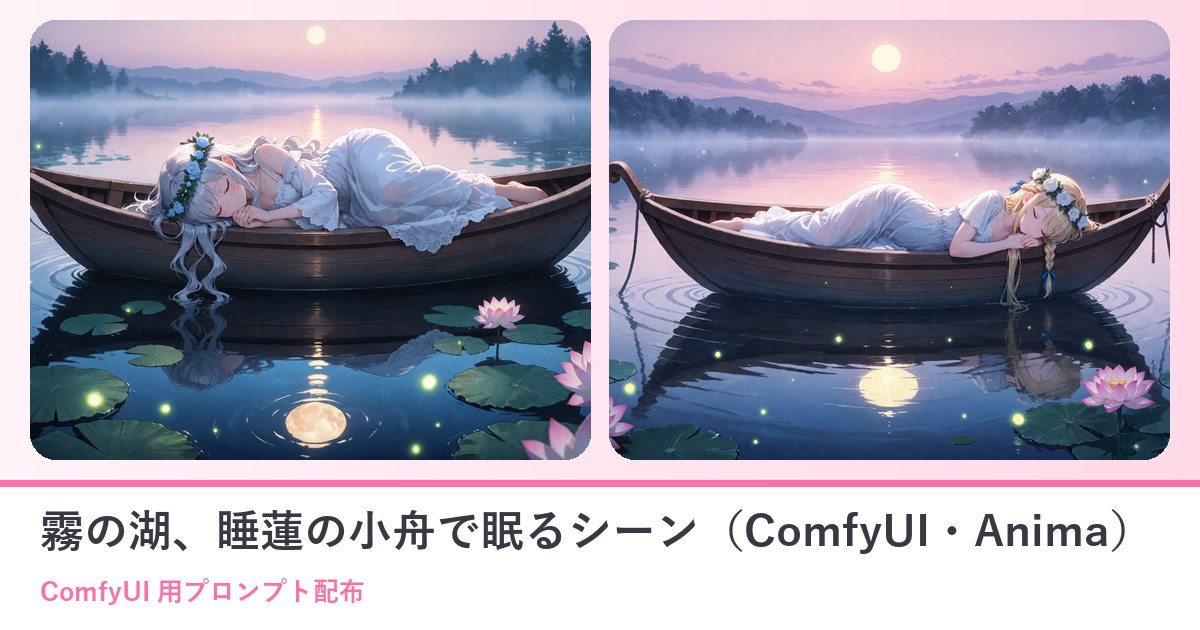
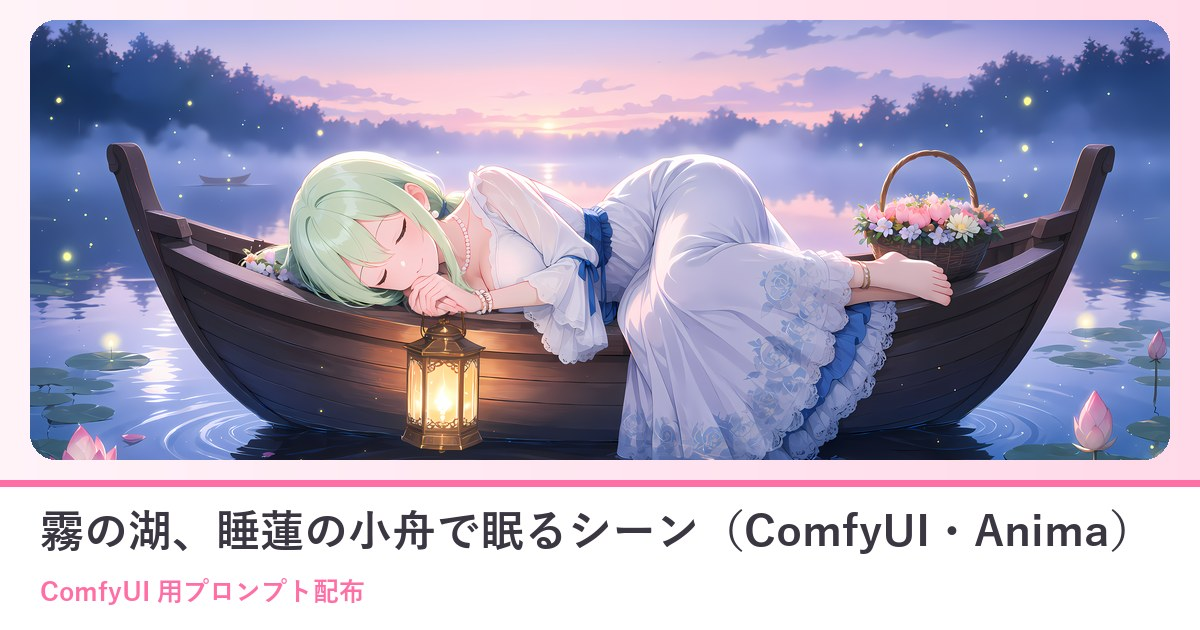
プロンプト配布 10/03 眠り姫 ComfyUI を1枚・LoRA あり／なしに作り直し

diff --git a/prompts/2026-10-03-comfy-r61dxbai.html b/prompts/2026-10-03-comfy-r61dxbai.html
@@ -4,16 +4,16 @@
 <meta charset="UTF-8"><meta name="robots" content="noindex, nofollow, noarchive"><meta name="referrer" content="strict-origin">
 <meta name="viewport" content="width=device-width, initial-scale=1">
 <title>霧の湖、睡蓮の小舟で眠るシーン（ComfyUI・Anima）｜ひみつの眠り姫</title>
-<meta name="description" content="霧のたちこめる夜明けの湖。睡蓮と蛍の光に囲まれた小舟で、花冠をのせたお姫さまが横向きに丸くなって眠っています。水面に映る月まで入った、絵本のような一枚が作れるシーンのプロンプトです。オリキャラがいなくても、そのまま貼るだ">
+<meta name="description" content="霧のたちこめる夜明けの湖。睡蓮と蛍の光に囲まれた小舟で、花冠をのせたお姫さまが横向きに丸くなって眠っています。水面に映るランタンの灯りまで入った、絵本のような一枚が作れるシーンのプロンプトです。LoRA が無くても、A ">
 <meta property="og:title" content="霧の湖、睡蓮の小舟で眠るシーン（ComfyUI・Anima）｜ひみつの眠り姫">
-<meta property="og:description" content="霧のたちこめる夜明けの湖。睡蓮と蛍の光に囲まれた小舟で、花冠をのせたお姫さまが横向きに丸くなって眠っています。水面に映る月まで入った、絵本のような一枚が作れるシーンのプロンプトです。オリキャラがいなくても、そのまま貼るだ">
+<meta property="og:description" content="霧のたちこめる夜明けの湖。睡蓮と蛍の光に囲まれた小舟で、花冠をのせたお姫さまが横向きに丸くなって眠っています。水面に映るランタンの灯りまで入った、絵本のような一枚が作れるシーンのプロンプトです。LoRA が無くても、A ">
 <meta property="og:type" content="article">
 <meta property="og:url" content="https://himitsu-nemurihime.github.io/prompts/2026-10-03-comfy-r61dxbai.html">
 <meta property="og:image" content="https://himitsu-nemurihime.github.io/prompts/img/2026-10-03-comfy-r61dxbai/og.jpg">
 <meta property="og:image:width" content="1200"><meta property="og:image:height" content="630">
 <meta name="twitter:card" content="summary_large_image">
 <meta name="twitter:title" content="霧の湖、睡蓮の小舟で眠るシーン（ComfyUI・Anima）｜ひみつの眠り姫">
-<meta name="twitter:description" content="霧のたちこめる夜明けの湖。睡蓮と蛍の光に囲まれた小舟で、花冠をのせたお姫さまが横向きに丸くなって眠っています。水面に映る月まで入った、絵本のような一枚が作れるシーンのプロンプトです。オリキャラがいなくても、そのまま貼るだ">
+<meta name="twitter:description" content="霧のたちこめる夜明けの湖。睡蓮と蛍の光に囲まれた小舟で、花冠をのせたお姫さまが横向きに丸くなって眠っています。水面に映るランタンの灯りまで入った、絵本のような一枚が作れるシーンのプロンプトです。LoRA が無くても、A ">
 <meta name="twitter:image" content="https://himitsu-nemurihime.github.io/prompts/img/2026-10-03-comfy-r61dxbai/og.jpg">
 <meta name="theme-color" content="#FFF3F8">
 <link rel="preconnect" href="https://fonts.googleapis.com">
@@ -68,15 +68,17 @@
 @media(max-width:560px){.ps-ba{grid-template-columns:1fr}.ps-ba .arr{transform:rotate(90deg);text-align:center}.ps-vars,.ps-vars tbody,.ps-vars tr,.ps-vars th,.ps-vars td{display:block;width:auto;white-space:normal}.ps-vars tr:first-child{display:none}.ps-vars tr{border-bottom:1px solid var(--ps-line);padding:4px 0}.ps-vars th,.ps-vars td{border:0;padding:6px 12px}}
 .ps{overflow-wrap:anywhere}.ps-vars td,.ps-vars th{overflow-wrap:anywhere}.ps img{max-width:100%}
 </style>
-<!--ps-meta {"date": "2026-10-03", "title": "霧の湖、睡蓮の小舟で眠るシーン（ComfyUI・Anima）", "kind": "comfy", "nsfw": false, "summary": "霧の湖で、睡蓮と蛍に囲まれた小舟に眠るお姫さま。水面の月まで入る絵本のような一枚が、貼るだけで作れます。", "thumb": "img/2026-10-03-comfy-r61dxbai/ex1.webp"}-->
+<!--ps-meta {"date": "2026-10-03", "title": "霧の湖、睡蓮の小舟で眠るシーン（ComfyUI・Anima）", "kind": "comfy", "nsfw": false, "summary": "霧の湖で、睡蓮と蛍に囲まれた小舟に眠るお姫さま。LoRA あり／なしの2通り。", "thumb": "img/2026-10-03-comfy-r61dxbai/ex1.webp"}-->
 </head>
 <body>
 <div class="sky"></div>
 <main class="wrap">
 <section class="sec"><div class="sec-head"><h2>霧の湖、睡蓮の小舟で眠るシーン（ComfyUI・Anima）</h2><p>ひみつの眠り姫のプロンプト配布</p></div>
-<div class="ps"><p><span class="ps-badge">ComfyUI 用</span><span class="ps-badge">2026-10-03</span></p><p class="ps-lead">霧のたちこめる夜明けの湖。睡蓮と蛍の光に囲まれた小舟で、花冠をのせたお姫さまが横向きに丸くなって眠っています。水面に映る月まで入った、絵本のような一枚が作れるシーンのプロンプトです。オリキャラがいなくても、そのまま貼るだけで綺麗な女の子で出ます。自分のキャラにしたいときは、1行目の見た目だけ書き換えてください。</p><nav class="ps-toc" aria-label="目次"><p>📑 目次</p><ol><li><a href="#sec1">作例</a></li><li><a href="#sec2">3人のおしゃべり（起こさないで）</a></li><li><a href="#sec3">使い方（3ステップ）</a></li><li><a href="#sec4">プロンプト</a></li><li><a href="#sec5">必要なもの（ComfyUI）</a></li><li><a href="#sec6">メモ</a></li><li><a href="#sec7">配布ルール</a></li><li><a href="#sec8">バックナンバー</a></li></ol></nav><h2 id="sec1">作例</h2><div class="ps-ex"><figure><img src="img/2026-10-03-comfy-r61dxbai/ex1.webp" alt="1行目そのまま（1girl, solo, long hair, wavy hair, silver hair）" loading="lazy"><figcaption>1行目そのまま（1girl, solo, long hair, wavy hair, silver hair）</figcaption></figure><figure><img src="img/2026-10-03-comfy-r61dxbai/ex2.webp" alt="1行目を「1girl, solo, long hair, blonde hair, braid, hair ribbon」に" loading="lazy"><figcaption>1行目を「1girl, solo, long hair, blonde hair, braid, hair ribbon」に</figcaption></figure><figure><img src="img/2026-10-03-comfy-r61dxbai/ex3.webp" alt="1行目を「1girl, solo, medium hair, light green hair, pink streaks, hair flower」に" loading="lazy"><figcaption>1行目を「1girl, solo, medium hair, light green hair, pink streaks, hair flower」に</figcaption></figure><figure><img src="img/2026-10-03-comfy-r61dxbai/ex4.webp" alt="1行目を「1girl, solo, short hair, black hair, hairclip」に" loading="lazy"><figcaption>1行目を「1girl, solo, short hair, black hair, hairclip」に</figcaption></figure></div><p style="font-size:.82rem;color:var(--ps-ink)">※作例の画像の転載・保存しての再配布はご遠慮ください。</p><h2 id="sec2">3人のおしゃべり（起こさないで）</h2><div class="ps-chat"><img src="img/2026-10-03-comfy-r61dxbai/talk_ref_tiru.webp" alt="ティルナ" loading="lazy"><div><div class="who">ティルナ</div><div class="bub">見て見て！ 霧の湖に小舟がぷかぷか……花冠のお姫さまが、丸くなってすやすや寝てるよ〜</div></div></div><div class="ps-chat r"><img src="img/2026-10-03-comfy-r61dxbai/talk_ref_sefi.webp" alt="セフィリア" loading="lazy"><div><div class="who">セフィリア</div><div class="bub">まあ……睡蓮と蛍の光、それに水面に映るお月さままで。夜明けの紫色の霧が、とても幻想的でございますね</div></div></div><div class="ps-chat r"><img src="img/2026-10-03-comfy-r61dxbai/talk_ref_lilia.webp" alt="リリア" loading="lazy"><div><div class="who">リリア</div><div class="bub">1行目の髪の色を書き換えるだけで、金髪の三つ編みにも、黒髪のショートにもなりますの。オリキャラがいなくても、そのままで綺麗に出ますわ</div></div></div><div class="ps-chat"><img src="img/2026-10-03-comfy-r61dxbai/talk_ref_tiru.webp" alt="ティルナ" loading="lazy"><div><div class="who">ティルナ</div><div class="bub">金髪の子は三つ編みが舟のふちから水にたれてて、黒髪の子はドレスのすそが湖まで……どっちも絵本みたい！</div></div></div><div class="ps-chat r"><img src="img/2026-10-03-comfy-r61dxbai/talk_ref_sefi.webp" alt="セフィリア" loading="lazy"><div><div class="who">セフィリア</div><div class="bub">舟の中で眠るか、ふちにもたれて眠るかは、seed しだいだそうでございます</div></div></div><div class="ps-chat r"><img src="img/2026-10-03-comfy-r61dxbai/talk_ref_lilia.webp" alt="リリア" loading="lazy"><div><div class="who">リリア</div><div class="bub">ネガティブの open eyes は消さないでくださいませ。眠り姫が目を覚まして、湖に落ちてしまいますわ</div></div></div><h2 id="sec3">使い方（3ステップ）</h2><ol class="ps-steps"><li>ComfyUI で Anima のモデルを読み、基本の画像生成（テキストから画像）の画面にする</li><li>下のポジティブとネガティブをワンタップでコピーして貼る（自分のキャラにするなら1行目だけ書き換える）</li><li>「推奨値」の大きさ・steps・CFG にして生成する（できれば 1.5 倍の hires fix も）</li></ol><h2 id="sec4">プロンプト</h2><div class="ps-note" style="margin-bottom:12px"><b>変えるのは1行目（色の付いた行）だけ</b><ul><li>1行目＝キャラの見た目（髪の色・髪型・目の色など）。自分のキャラの特徴に書き換えてね</li><li>オリキャラがいない人は、<b>そのまま</b>コピーして使えばOK（作例の女の子で出ます）</li><li>自分のキャラの LoRA がある人は、1行目に LoRA のトリガー語を入れてね</li><li>2行目から下（シーン）と、ネガティブプロンプトは変えずにそのまま</li><li>🚫 版権キャラの名前・版権キャラの LoRA を入れて使うのは固く禁止です（下の「配布ルール」）</li></ul></div><div class="ps-box"><button class="ps-copy" type="button" data-target="ps-prompt">📋 ワンタップでコピー</button><p style="margin:0 0 8px;font-size:.82rem;color:var(--ps-a)">ポジティブプロンプト</p><pre><mark class="ps-in" data-key="キャラの行">1girl, solo, long hair, wavy hair, silver hair</mark>
-masterpiece, best quality, score_7, safe, sleeping, closed eyes, peaceful smile, lying, on side, curled up, hands together, in boat, small boat, rowboat, white dress, long dress, lace trim, head wreath, flower wreath, lotus, water lily, lake, fog, mist, dawn, moon, moon reflection, reflection, water, ripples, fireflies, light particles, from side, full body, wide shot, depth of field, detailed background, scenery, cinematic lighting, ethereal, fantasy, pastel colors</pre><textarea class="ps-copyarea" id="ps-prompt" readonly aria-hidden="true" tabindex="-1">1girl, solo, long hair, wavy hair, silver hair
-masterpiece, best quality, score_7, safe, sleeping, closed eyes, peaceful smile, lying, on side, curled up, hands together, in boat, small boat, rowboat, white dress, long dress, lace trim, head wreath, flower wreath, lotus, water lily, lake, fog, mist, dawn, moon, moon reflection, reflection, water, ripples, fireflies, light particles, from side, full body, wide shot, depth of field, detailed background, scenery, cinematic lighting, ethereal, fantasy, pastel colors</textarea></div><div style="height:12px"></div><div class="ps-box"><button class="ps-copy" type="button" data-target="ps-negative">📋 ワンタップでコピー</button><p style="margin:0 0 8px;font-size:.82rem;color:var(--ps-a)">ネガティブプロンプト</p><pre>worst quality, low quality, lowres, bad anatomy, bad hands, extra fingers, missing fingers, fused fingers, blurry, jpeg artifacts, text, watermark, signature, logo, extra person, multiple girls, cropped, out of frame, open eyes, japanese text, chinese text, korean text, kanji, hiragana, katakana, calligraphy</pre><textarea class="ps-copyarea" id="ps-negative" readonly aria-hidden="true" tabindex="-1">worst quality, low quality, lowres, bad anatomy, bad hands, extra fingers, missing fingers, fused fingers, blurry, jpeg artifacts, text, watermark, signature, logo, extra person, multiple girls, cropped, out of frame, open eyes, japanese text, chinese text, korean text, kanji, hiragana, katakana, calligraphy</textarea></div><h2 id="sec5">必要なもの（ComfyUI）</h2><div class="ps-note">🧩 <b>カスタムノードは使っていません</b>。LoRA も要りません。ComfyUI の基本の画像生成（テキストから画像）に、ポジティブ・ネガティブを貼って、下の推奨値にするだけです。</div><table class="ps-vars" style="margin-top:12px"><tr><th>モデル</th><th>ファイル</th><th>置き場</th></tr><tr><td>Anima 系のモデル</td><td>PrismPalette_ANIMA_v1 など好きな Anima</td><td><code>models/diffusion_models</code></td></tr><tr><td>テキストエンコーダ（Anima 用）</td><td>qwen_3_06b_base.safetensors</td><td><code>models/text_encoders</code></td></tr><tr><td>VAE（Anima 用）</td><td>qwen_image_vae.safetensors</td><td><code>models/vae</code></td></tr></table><h2>推奨値</h2><table class="ps-vars"><tr><th>大きさ</th><td colspan="2">1536×864（横長＝小舟と湖と月が一枚に入る）</td></tr><tr><th>steps</th><td colspan="2">30</td></tr><tr><th>CFG</th><td colspan="2">4.5</td></tr><tr><th>sampler</th><td colspan="2">er_sde</td></tr><tr><th>scheduler</th><td colspan="2">beta</td></tr><tr><th>hires fix（任意）</th><td colspan="2">1.5 倍に拡大して denoise 0.4・同じ steps と CFG（作例はこれ）</td></tr><tr><th>LoRA</th><td colspan="2">要りません（自分のキャラの LoRA があれば使ってOK）</td></tr></table><h2 id="sec6">メモ</h2><ul class="ps-rules"><li>1行目には見た目だけを書いてください（髪の色・長さ・髪型・髪飾りなど）。ドレスや湖は2行目からに入っているので、書かなくて大丈夫です。</li><li>眠っている場面なので、目の色は写りません。ネガティブの open eyes は消さないでください（目が開いてしまいます）。</li><li>小舟の中に寝るか、ふちに寄りかかって寝るかは seed で変わります。手は頬の下でそろえる形なので、くずれにくくなっています。</li><li>ほかのモデル（SDXL・Illustrious など）でも、2行目の先頭の masterpiece, best quality, score_7, safe をそのモデルの品質の語に替えれば使えます（作例は Anima です）。</li></ul><h2 id="sec7">配布ルール</h2><ul class="ps-rules"><li>⭕ プロンプトの改変は自由です。</li><li>⭕ 生成した画像は SNS に投稿して大丈夫です。</li><li>❌ プロンプト文そのものの転載・再配布・販売はしないでください。</li><li>❌ 自作のプロンプトだと名乗ることはやめてください。</li><li>❌ このページの作例画像の無断転載はしないでください。</li><li class="ps-rights">🚫 <b>アニメ・漫画・ゲームなどの版権キャラクター（著作権・商標のあるキャラ）、他の人のキャラクターやイラスト、実在の人物の写真を添付画像にして使うことは固く禁止します。</b>版権キャラの名前や、版権キャラの LoRA を入れて使うことも禁止です。</li><li>✅ 添付してよいのは、<b>自分で作ったキャラクター・自分が権利を持つ画像</b>（または権利者から使ってよいと言われた画像）だけです。</li><li>⚠ 生成した画像の使い方（投稿・公開など）は、使った人の責任でお願いします。権利の問題が起きても、配布者は責任を負えません。</li><li>💌 使ったら <b>#眠り姫プロンプト</b> を付けて見せてくれたら、とても嬉しいです（任意です）。</li></ul><h2 id="sec8">バックナンバー</h2><div class="ps-note">📚 これまでの配布は <a href="index.html"><b>バックナンバー</b></a> にまとめてあります（作例の絵と内容が一覧で見られます）。お友だちに教えるときは、バックナンバーのページの URL を送ればOKです。</div></div>
+<div class="ps"><p><span class="ps-badge">ComfyUI 用</span><span class="ps-badge">2026-10-03</span></p><p class="ps-lead">霧のたちこめる夜明けの湖。睡蓮と蛍の光に囲まれた小舟で、花冠をのせたお姫さまが横向きに丸くなって眠っています。水面に映るランタンの灯りまで入った、絵本のような一枚が作れるシーンのプロンプトです。LoRA が無くても、A をそのまま貼るだけで綺麗な女の子で出ます。自分のキャラの LoRA を持っている人は B をどうぞ。</p><nav class="ps-toc" aria-label="目次"><p>📑 目次</p><ol><li><a href="#sec1">作例</a></li><li><a href="#sec2">3人のおしゃべり（起こさないで）</a></li><li><a href="#sec3">使い方（3ステップ）</a></li><li><a href="#sec4">プロンプト</a></li><li><a href="#sec5">必要なもの（ComfyUI）</a></li><li><a href="#sec6">メモ</a></li><li><a href="#sec7">配布ルール</a></li></ol></nav><h2 id="sec1">作例</h2><div class="ps-ex"><figure><img src="img/2026-10-03-comfy-r61dxbai/ex1.webp" alt="ティルナ（眠り姫の LoRA・いつもの投稿と同じ仕上げ）" loading="lazy"><figcaption>ティルナ（眠り姫の LoRA・いつもの投稿と同じ仕上げ）</figcaption></figure></div><p style="font-size:.82rem;color:var(--ps-ink)">※作例の画像の転載・保存しての再配布はご遠慮ください。</p><h2 id="sec2">3人のおしゃべり（起こさないで）</h2><div class="ps-chat"><img src="img/2026-10-03-comfy-r61dxbai/talk_ref_tiru.webp" alt="ティルナ" loading="lazy"><div><div class="who">ティルナ</div><div class="bub">えへへ、わたしが霧の湖の小舟で、丸くなってすやすや寝てるよ〜。ランタンの灯りがあったかいの</div></div></div><div class="ps-chat r"><img src="img/2026-10-03-comfy-r61dxbai/talk_ref_sefi.webp" alt="セフィリア" loading="lazy"><div><div class="who">セフィリア</div><div class="bub">まあ……睡蓮と蛍の光、それに水面に映るランタンまで。夜明けの紫の霧が、とても幻想的でございますね</div></div></div><div class="ps-chat r"><img src="img/2026-10-03-comfy-r61dxbai/talk_ref_lilia.webp" alt="リリア" loading="lazy"><div><div class="who">リリア</div><div class="bub">LoRA が無い方は A をそのまま貼るだけですわ。1行目の髪の色を変えれば、ご自分の子にも近づけられますの</div></div></div><div class="ps-chat"><img src="img/2026-10-03-comfy-r61dxbai/talk_ref_tiru.webp" alt="ティルナ" loading="lazy"><div><div class="who">ティルナ</div><div class="bub">LoRA がある人は B だよ！ 1行目の your_lora_trigger を自分のトリガー語にするだけ！</div></div></div><div class="ps-chat r"><img src="img/2026-10-03-comfy-r61dxbai/talk_ref_sefi.webp" alt="セフィリア" loading="lazy"><div><div class="who">セフィリア</div><div class="bub">足もとのお花のかごも、白いドレスのレースも、霧に溶けてしまいそうでございます</div></div></div><div class="ps-chat r"><img src="img/2026-10-03-comfy-r61dxbai/talk_ref_lilia.webp" alt="リリア" loading="lazy"><div><div class="who">リリア</div><div class="bub">ネガティブの open eyes は消さないでくださいませ。眠り姫が目を覚まして、湖に落ちてしまいますわ</div></div></div><h2 id="sec3">使い方（3ステップ）</h2><ol class="ps-steps"><li>ComfyUI で Anima のモデルを読み、基本の画像生成（テキストから画像）の画面にする</li><li>下の A（LoRA なし）か B（LoRA あり）のポジティブと、ネガティブをワンタップでコピーして貼る</li><li>「推奨値」の大きさ・steps・CFG にして生成する（できれば 1.5 倍の hires fix も）</li></ol><h2 id="sec4">プロンプト</h2><div class="ps-note" style="margin-bottom:12px"><b>変えるのは1行目（色の付いた行）だけ</b><ul><li>使うプロンプトは2通り＝<b>A. LoRA を持っていない人</b>／<b>B. 自分のキャラの LoRA を持っている人</b>。どちらも丸ごとコピーして貼るだけ</li><li>A は<b>そのまま</b>でも綺麗な女の子で出ます。自分のキャラにするなら1行目の髪の色・髪型・目の色を書き換えるだけ</li><li>B は1行目の <code>your_lora_trigger</code> を自分の LoRA のトリガー語に置きかえるだけ（LoRA の強さは下の表）</li><li>2行目から下（シーン）と、ネガティブプロンプトは変えずにそのまま</li><li>🚫 版権キャラの名前・版権キャラの LoRA を入れて使うのは固く禁止です（下の「配布ルール」）</li></ul></div><h3 style="margin:14px 0 8px">A. LoRA を持っていない人（そのままでもOK）</h3><div class="ps-box"><button class="ps-copy" type="button" data-target="ps-prompt">📋 ワンタップでコピー</button><p style="margin:0 0 8px;font-size:.82rem;color:var(--ps-a)">ポジティブプロンプト</p><pre><mark class="ps-in" data-key="キャラの行">1girl, solo, medium hair, light green hair, pink streaks, hair flower</mark>
+masterpiece, best quality, score_7, safe, full body, from side, wide shot, sleeping, closed eyes, smile, lying, on side, curled up, own hands together, boat, rowboat, lake, water, ripples, reflection, lotus, holding lantern, fog, mist, dawn, moon, fireflies, light particles, pastel colors, white dress, long dress, lace, lace trim, bell sleeves, frilled collar, layered skirt, floral print, barefoot, anklet, flower wreath, pearl earrings, pearl necklace, bracelet, flower basket, petals, blue ribbon, depth of field</pre><textarea class="ps-copyarea" id="ps-prompt" readonly aria-hidden="true" tabindex="-1">1girl, solo, medium hair, light green hair, pink streaks, hair flower
+masterpiece, best quality, score_7, safe, full body, from side, wide shot, sleeping, closed eyes, smile, lying, on side, curled up, own hands together, boat, rowboat, lake, water, ripples, reflection, lotus, holding lantern, fog, mist, dawn, moon, fireflies, light particles, pastel colors, white dress, long dress, lace, lace trim, bell sleeves, frilled collar, layered skirt, floral print, barefoot, anklet, flower wreath, pearl earrings, pearl necklace, bracelet, flower basket, petals, blue ribbon, depth of field</textarea></div><h3 style="margin:18px 0 8px">B. 自分のキャラの LoRA を持っている人</h3><div class="ps-box"><button class="ps-copy" type="button" data-target="ps-prompt-lora">📋 ワンタップでコピー</button><p style="margin:0 0 8px;font-size:.82rem;color:var(--ps-a)">ポジティブプロンプト（LoRA 用）</p><pre><mark class="ps-in" data-key="キャラの行">1girl, solo, your_lora_trigger</mark>
+masterpiece, best quality, score_7, safe, full body, from side, wide shot, sleeping, closed eyes, smile, lying, on side, curled up, own hands together, boat, rowboat, lake, water, ripples, reflection, lotus, holding lantern, fog, mist, dawn, moon, fireflies, light particles, pastel colors, white dress, long dress, lace, lace trim, bell sleeves, frilled collar, layered skirt, floral print, barefoot, anklet, flower wreath, pearl earrings, pearl necklace, bracelet, flower basket, petals, blue ribbon, depth of field</pre><textarea class="ps-copyarea" id="ps-prompt-lora" readonly aria-hidden="true" tabindex="-1">1girl, solo, your_lora_trigger
+masterpiece, best quality, score_7, safe, full body, from side, wide shot, sleeping, closed eyes, smile, lying, on side, curled up, own hands together, boat, rowboat, lake, water, ripples, reflection, lotus, holding lantern, fog, mist, dawn, moon, fireflies, light particles, pastel colors, white dress, long dress, lace, lace trim, bell sleeves, frilled collar, layered skirt, floral print, barefoot, anklet, flower wreath, pearl earrings, pearl necklace, bracelet, flower basket, petals, blue ribbon, depth of field</textarea></div><table class="ps-vars" style="margin-top:10px"><tr><th>LoRA のつなぎ方</th><td colspan="2">Load Diffusion Model（Anima）のうしろに LoraLoaderModelOnly を1つ足す（CLIP にはつながない）</td></tr><tr><th>LoRA の強さ（strength_model）</th><td colspan="2">0.8〜0.9（作例は 0.85）</td></tr><tr><th>1行目</th><td colspan="2">your_lora_trigger を自分の LoRA のトリガー語に置きかえる（髪や目の色は LoRA が覚えているので書かなくてOK）</td></tr></table><p style="font-size:.85rem;margin:10px 0 0">ネガティブプロンプトは A・B 共通（下）です。</p><div style="height:12px"></div><div class="ps-box"><button class="ps-copy" type="button" data-target="ps-negative">📋 ワンタップでコピー</button><p style="margin:0 0 8px;font-size:.82rem;color:var(--ps-a)">ネガティブプロンプト</p><pre>worst quality, low quality, lowres, bad anatomy, bad hands, extra fingers, missing fingers, fused fingers, blurry, jpeg artifacts, text, watermark, signature, logo, extra person, multiple girls, cropped, out of frame, japanese text, chinese text, korean text, kanji, hiragana, katakana, calligraphy</pre><textarea class="ps-copyarea" id="ps-negative" readonly aria-hidden="true" tabindex="-1">worst quality, low quality, lowres, bad anatomy, bad hands, extra fingers, missing fingers, fused fingers, blurry, jpeg artifacts, text, watermark, signature, logo, extra person, multiple girls, cropped, out of frame, japanese text, chinese text, korean text, kanji, hiragana, katakana, calligraphy</textarea></div><h2 id="sec5">必要なもの（ComfyUI）</h2><div class="ps-note">🧩 <b>カスタムノードは使っていません</b>。LoRA が無くても大丈夫（A のプロンプト）。ComfyUI の基本の画像生成（テキストから画像）に、ポジティブ・ネガティブを貼って、下の推奨値にするだけです。LoRA を使う人は「LoraLoaderModelOnly」を1つ足すだけ（B のプロンプト）。</div><table class="ps-vars" style="margin-top:12px"><tr><th>モデル</th><th>ファイル</th><th>置き場</th></tr><tr><td>Anima 系のモデル</td><td>PrismPalette_ANIMA_v1 など好きな Anima</td><td><code>models/diffusion_models</code></td></tr><tr><td>テキストエンコーダ（Anima 用）</td><td>qwen_3_06b_base.safetensors</td><td><code>models/text_encoders</code></td></tr><tr><td>VAE（Anima 用）</td><td>qwen_image_vae.safetensors</td><td><code>models/vae</code></td></tr></table><h2>推奨値</h2><table class="ps-vars"><tr><th>大きさ</th><td colspan="2">1536×864（横長＝小舟と湖と月が一枚に入る）</td></tr><tr><th>steps</th><td colspan="2">30</td></tr><tr><th>CFG</th><td colspan="2">4.5</td></tr><tr><th>sampler</th><td colspan="2">er_sde</td></tr><tr><th>scheduler</th><td colspan="2">beta</td></tr><tr><th>hires fix（任意）</th><td colspan="2">1.5 倍に拡大して denoise 0.4・同じ steps と CFG（試し焼きはこれ）</td></tr><tr><th>LoRA</th><td colspan="2">無くてOK（A のプロンプト）。自分のキャラの LoRA があれば B のプロンプトで</td></tr></table><h2 id="sec6">メモ</h2><ul class="ps-rules"><li>A（LoRA なし）は1行目の髪の色・長さ・髪型を書き換えるだけで、自分のキャラに近づけられます。そのままでも綺麗な女の子で出ます（試し焼きで確かめてあります）。</li><li>B（LoRA あり）は1行目の your_lora_trigger を自分の LoRA のトリガー語にするだけ。髪や目の色は LoRA が覚えているので書かなくて大丈夫です。</li><li>眠っている場面なので目は閉じています。ネガティブの open eyes は消さないでください。手は頬の下でそろえる形なので、くずれにくくなっています。</li><li>舟の中で眠るか、ふちにもたれて眠るかは seed で変わります。ほかのモデルでも、2行目の先頭の品質の語を替えれば使えます（作例は Anima です）。</li></ul><h2 id="sec7">配布ルール</h2><ul class="ps-rules"><li>⭕ プロンプトの改変は自由です。</li><li>⭕ 生成した画像は SNS に投稿して大丈夫です。</li><li>❌ プロンプト文そのものの転載・再配布・販売はしないでください。</li><li>❌ 自作のプロンプトだと名乗ることはやめてください。</li><li>❌ このページの作例画像の無断転載はしないでください。</li><li class="ps-rights">🚫 <b>アニメ・漫画・ゲームなどの版権キャラクター（著作権・商標のあるキャラ）、他の人のキャラクターやイラスト、実在の人物の写真を添付画像にして使うことは固く禁止します。</b>版権キャラの名前や、版権キャラの LoRA を入れて使うことも禁止です。</li><li>✅ 添付してよいのは、<b>自分で作ったキャラクター・自分が権利を持つ画像</b>（または権利者から使ってよいと言われた画像）だけです。</li><li>⚠ 生成した画像の使い方（投稿・公開など）は、使った人の責任でお願いします。権利の問題が起きても、配布者は責任を負えません。</li><li>💌 使ったら <b>#眠り姫プロンプト</b> を付けて見せてくれたら、とても嬉しいです（任意です）。</li></ul></div>
 <p style="text-align:center;margin:34px 0 0"><a class="gate-btn ghost" href="../index.html" style="color:var(--ink-dim);border-color:var(--line)">部屋に戻る</a></p>
 </section>
 </main>
